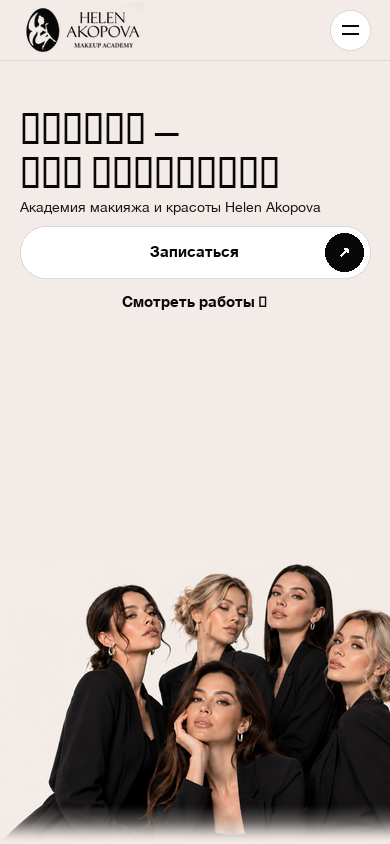
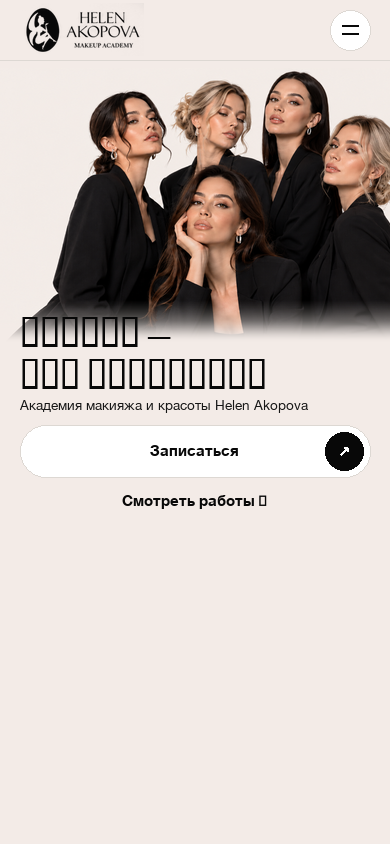
feat(mobile): photo on top, left-aligned overlapping headline, centered action buttons

diff --git a/style.css b/style.css
@@ -1158,33 +1158,100 @@ img {
 
   .hero-section {
     flex-direction: column;
-    justify-content: space-between;
-    min-height: calc(100dvh - var(--header-height));
+    justify-content: flex-start;
+    min-height: auto;
     height: auto;
     width: 100%;
   }
 
+  /* 1. ФОТОГРАФИЯ СВЕРХУ (Order: 1) */
+  .hero-right-visual {
+    position: relative;
+    right: auto;
+    bottom: auto;
+    width: 100%;
+    flex: none;
+    display: flex;
+    align-items: flex-start;
+    justify-content: center;
+    min-height: auto;
+    height: auto;
+    order: 1; /* ФОТО ПЕРВОЕ */
+    margin-top: calc(var(--header-height) + 8px);
+    margin-bottom: 0;
+    padding: 0;
+    overflow: visible;
+  }
+
+  .hero-image-stage {
+    position: relative;
+    width: 100%;
+    height: auto;
+    display: flex;
+    align-items: flex-start;
+    justify-content: center;
+  }
+
+  .hero-image-stage::after {
+    content: '';
+    position: absolute;
+    left: 0;
+    right: 0;
+    bottom: 0;
+    height: 52px;
+    background: linear-gradient(to bottom, rgba(243, 235, 231, 0) 0%, rgba(243, 235, 231, 0.75) 55%, rgba(243, 235, 231, 1) 100%);
+    pointer-events: none;
+    z-index: 2;
+  }
+
+  .hero-picture {
+    position: relative;
+    display: block;
+    width: 100%;
+    max-width: 500px;
+    height: auto;
+  }
+
+  .hero-group-photo {
+    width: 100%;
+    max-width: 500px;
+    height: auto;
+    object-fit: contain;
+    object-position: center top;
+    display: block;
+    transform: scale(1.05);
+    transform-origin: center top;
+    -webkit-mask-image: linear-gradient(to bottom, #000 78%, rgba(0, 0, 0, 0.85) 88%, transparent 100%);
+    mask-image: linear-gradient(to bottom, #000 78%, rgba(0, 0, 0, 0.85) 88%, transparent 100%);
+  }
+
+  /* 2. ЗАГОЛОВОК И КНОПКИ ПОД ФОТО (Order: 2, с наплывом на фото) */
   .hero-left-content {
-    position: static;
-    padding: calc(var(--header-height) + 44px) var(--screen-padding-h) 0;
+    position: relative;
+    z-index: 10;
+    order: 2; /* ТЕКСТ И КНОПКИ ПОД ФОТО */
+    margin-top: -34px; /* ЗАГОЛОВОК ЧУТЬ ЗАХОДИТ НА ФОТО */
+    padding: 0 var(--screen-padding-h) 32px;
     max-width: 100%;
     width: 100%;
-    order: 1;
     display: flex;
     flex-direction: column;
-    align-items: flex-start;
+    align-items: flex-start; /* ПО ЛЕВОМУ КРАЮ */
+    text-align: left;
   }
 
   .hero-typography-block {
-    margin-bottom: 22px;
+    margin-bottom: 24px;
     width: 100%;
+    text-align: left;
   }
 
   .hero-title {
-    font-size: clamp(2.8rem, 8vw, 3.5rem);
-    line-height: 1.02;
-    margin-bottom: 14px;
+    font-size: clamp(2.55rem, 8.4vw, 3.2rem);
+    line-height: 1.03;
+    margin-bottom: 12px;
     letter-spacing: -0.02em;
+    text-align: left;
   }
 
   .hero-subtitle {
@@ -1192,16 +1259,18 @@ img {
     line-height: 1.35;
     margin-bottom: 22px;
     color: var(--color-text-sub);
+    text-align: left;
   }
 
+  /* 3. КНОПКИ ПО СЕРЕДИНЕ */
   .hero-cta-group {
     display: flex;
     flex-direction: column;
-    align-items: center;
+    align-items: center; /* ПО СЕРЕДИНЕ */
     justify-content: center;
     width: 100%;
     gap: 12px;
-    margin-bottom: 18px;
+    margin: 0 auto;
   }
 
   .hero-primary-btn {
@@ -1245,69 +1314,6 @@ img {
     margin: 0 auto;
   }
 
-  .hero-right-visual {
-    position: relative;
-    right: auto;
-    bottom: auto;
-    width: 100%;
-    flex: 1;
-    display: flex;
-    align-items: flex-end;
-    justify-content: center;
-    min-height: auto;
-    height: auto;
-    order: 2;
-    margin-top: 14px;
-    margin-bottom: 0;
-    padding: 0;
-    overflow: hidden;
-  }
-
-  .hero-image-stage {
-    position: relative;
-    width: 100%;
-    height: 100%;
-    display: flex;
-    align-items: flex-end;
-    justify-content: center;
-  }
-
-  .hero-image-stage::after {
-    content: '';
-    position: absolute;
-    left: 0;
-    right: 0;
-    bottom: 0;
-    height: 48px;
-    background: linear-gradient(to bottom, rgba(243, 235, 231, 0) 0%, rgba(243, 235, 231, 0.75) 60%, rgba(243, 235, 231, 1) 100%);
-    pointer-events: none;
-    z-index: 2;
-  }
-
-  .hero-picture {
-    position: relative;
-    display: flex;
-    align-items: flex-end;
-    justify-content: center;
-    width: 100%;
-    max-width: 520px;
-    height: 100%;
-  }
-
-  .hero-group-photo {
-    width: 100%;
-    max-width: 520px;
-    height: auto;
-    max-height: 480px;
-    object-fit: contain;
-    object-position: center bottom;
-    display: block;
-    transform: scale(1.08);
-    transform-origin: center bottom;
-    -webkit-mask-image: linear-gradient(to bottom, #000 80%, rgba(0, 0, 0, 0.85) 90%, transparent 100%);
-    mask-image: linear-gradient(to bottom, #000 80%, rgba(0, 0, 0, 0.85) 90%, transparent 100%);
-  }
-
   .hero-bottom-info {
     display: none;
   }
@@ -1327,25 +1333,32 @@ img {
     display: none;
   }
 
+  .hero-right-visual {
+    margin-top: calc(var(--header-height) + 6px);
+  }
+
   .hero-left-content {
-    padding: calc(var(--header-height) + 38px) var(--screen-padding-h) 0;
+    margin-top: -36px; /* Заход заголовка на фото на смартфонах */
+    padding: 0 var(--screen-padding-h) 28px;
   }
 
   .hero-title {
-    font-size: clamp(2.45rem, 8.4vw, 2.95rem);
+    font-size: clamp(2.35rem, 8.2vw, 2.85rem);
     line-height: 1.02;
     margin-bottom: 12px;
+    text-align: left;
   }
 
   .hero-subtitle {
-    font-size: 14px;
+    font-size: 13.5px;
     line-height: 1.35;
     margin-bottom: 20px;
+    text-align: left;
   }
 
   .hero-cta-group {
     gap: 12px;
-    margin-bottom: 16px;
+    margin-bottom: 12px;
   }
 
   .hero-primary-btn {
@@ -1357,23 +1370,6 @@ img {
   .hero-secondary-btn {
     font-size: 14px;
     padding: 4px 0;
-  }
-
-  .hero-right-visual {
-    margin-top: 8px;
-    margin-bottom: 0;
-    padding: 0;
-  }
-
-  .hero-picture {
-    max-width: 100%;
-  }
-
-  .hero-group-photo {
-    max-width: 100%;
-    max-height: 440px;
-    transform: scale(1.1);
-    transform-origin: center bottom;
   }
 }
 

diff --git a/generate_renders.py b/generate_renders.py
@@ -218,26 +218,43 @@ def render_mobile_exact(output_filename):
     draw.line([(ham_x + 12, ham_y + 15), (ham_x + 28, ham_y + 15)], fill=COLOR_BLACK, width=2)
     draw.line([(ham_x + 12, ham_y + 23), (ham_x + 28, ham_y + 23)], fill=COLOR_BLACK, width=2)
 
-    # Mobile Typography (Enlarged and shifted down further to fill the screen)
-    y = header_h + 44
+    # 1. Group Photo First (Under header)
+    photo_y = header_h + 8
+    grp_m = Image.open("assets/group-girls-mobile.png").convert("RGBA")
+    pw = int(W * 1.05)
+    ph = int(grp_m.height * (pw / grp_m.width))
+    grp_scaled = grp_m.resize((pw, ph), Image.Resampling.LANCZOS)
+    paste_x = (W - pw) // 2
+    canvas.alpha_composite(grp_scaled, (paste_x, photo_y))
+
+    # Smooth bottom transition overlay on photo
+    fade_overlay = Image.new("RGBA", (W, 44), (0, 0, 0, 0))
+    d_fade = ImageDraw.Draw(fade_overlay)
+    for fy in range(44):
+        alpha = int(255 * ((fy / 43) ** 1.3))
+        d_fade.line([(0, fy), (W, fy)], fill=BG_IVORY + (alpha,))
+    canvas.alpha_composite(fade_overlay, (0, photo_y + ph - 44))
+
+    # 2. Headline & Subtitle overlapping the photo by ~34px, left-aligned
+    y = photo_y + ph - 34
     try:
-        f_title_m = ImageFont.truetype(SERIF_BODONI, 42, index=0)
+        f_title_m = ImageFont.truetype(SERIF_BODONI, 40, index=0)
     except:
-        f_title_m = ImageFont.truetype(SERIF_GEORGIA, 40)
+        f_title_m = ImageFont.truetype(SERIF_GEORGIA, 38)
         
     draw.text((20, y), "Макияж —", font=f_title_m, fill=COLOR_BLACK)
-    y += 44
+    y += 42
     draw.text((20, y), "это искусство", font=f_title_m, fill=COLOR_BLACK)
     
-    y += 50
+    y += 46
     try:
-        f_sub_m = ImageFont.truetype(SANS_REG, 14)
+        f_sub_m = ImageFont.truetype(SANS_REG, 13.5)
     except:
         f_sub_m = ImageFont.truetype(SANS_REG, 13)
     draw.text((20, y), "Академия макияжа и красоты Helen Akopova", font=f_sub_m, fill=COLOR_SUBTITLE)
     y += 28
 
-    # Mobile Button Group: Записаться (по центру) + Смотреть работы (по центру)
+    # 3. Mobile Button Group: Записаться (по центру) + Смотреть работы (по центру)
     btn_w = W - 40
     btn_h = 52
     draw_rounded_rect(draw, [20, y, 20 + btn_w, y + btn_h], radius=26, fill=COLOR_WHITE, outline=COLOR_BORDER, width=1)
@@ -264,23 +281,6 @@ def render_mobile_exact(output_filename):
     bbox_sec = draw.textbbox((0, 0), txt_sec, font=f_btn_m)
     tw_sec = bbox_sec[2] - bbox_sec[0]
     draw.text(((W - tw_sec) // 2, y), txt_sec, font=f_btn_m, fill=COLOR_BLACK)
-
-    # Group Photo on Mobile: fills the entire bottom portion of the screen
-    grp_m = Image.open("assets/group-girls-mobile.png").convert("RGBA")
-    pw = int(W * 1.08)
-    ph = int(grp_m.height * (pw / grp_m.width))
-    grp_scaled = grp_m.resize((pw, ph), Image.Resampling.LANCZOS)
-    paste_x = (W - pw) // 2
-    paste_y = H - ph
-    canvas.alpha_composite(grp_scaled, (paste_x, paste_y))
-
-    # Smooth bottom transition overlay
-    fade_overlay = Image.new("RGBA", (W, 40), (0, 0, 0, 0))
-    d_fade = ImageDraw.Draw(fade_overlay)
-    for fy in range(40):
-        alpha = int(255 * ((fy / 39) ** 1.3))
-        d_fade.line([(0, fy), (W, fy)], fill=BG_IVORY + (alpha,))
-    canvas.alpha_composite(fade_overlay, (0, H - 40))
 
     final_rgb = canvas.convert("RGB")
     final_rgb.save(output_filename, quality=96)
